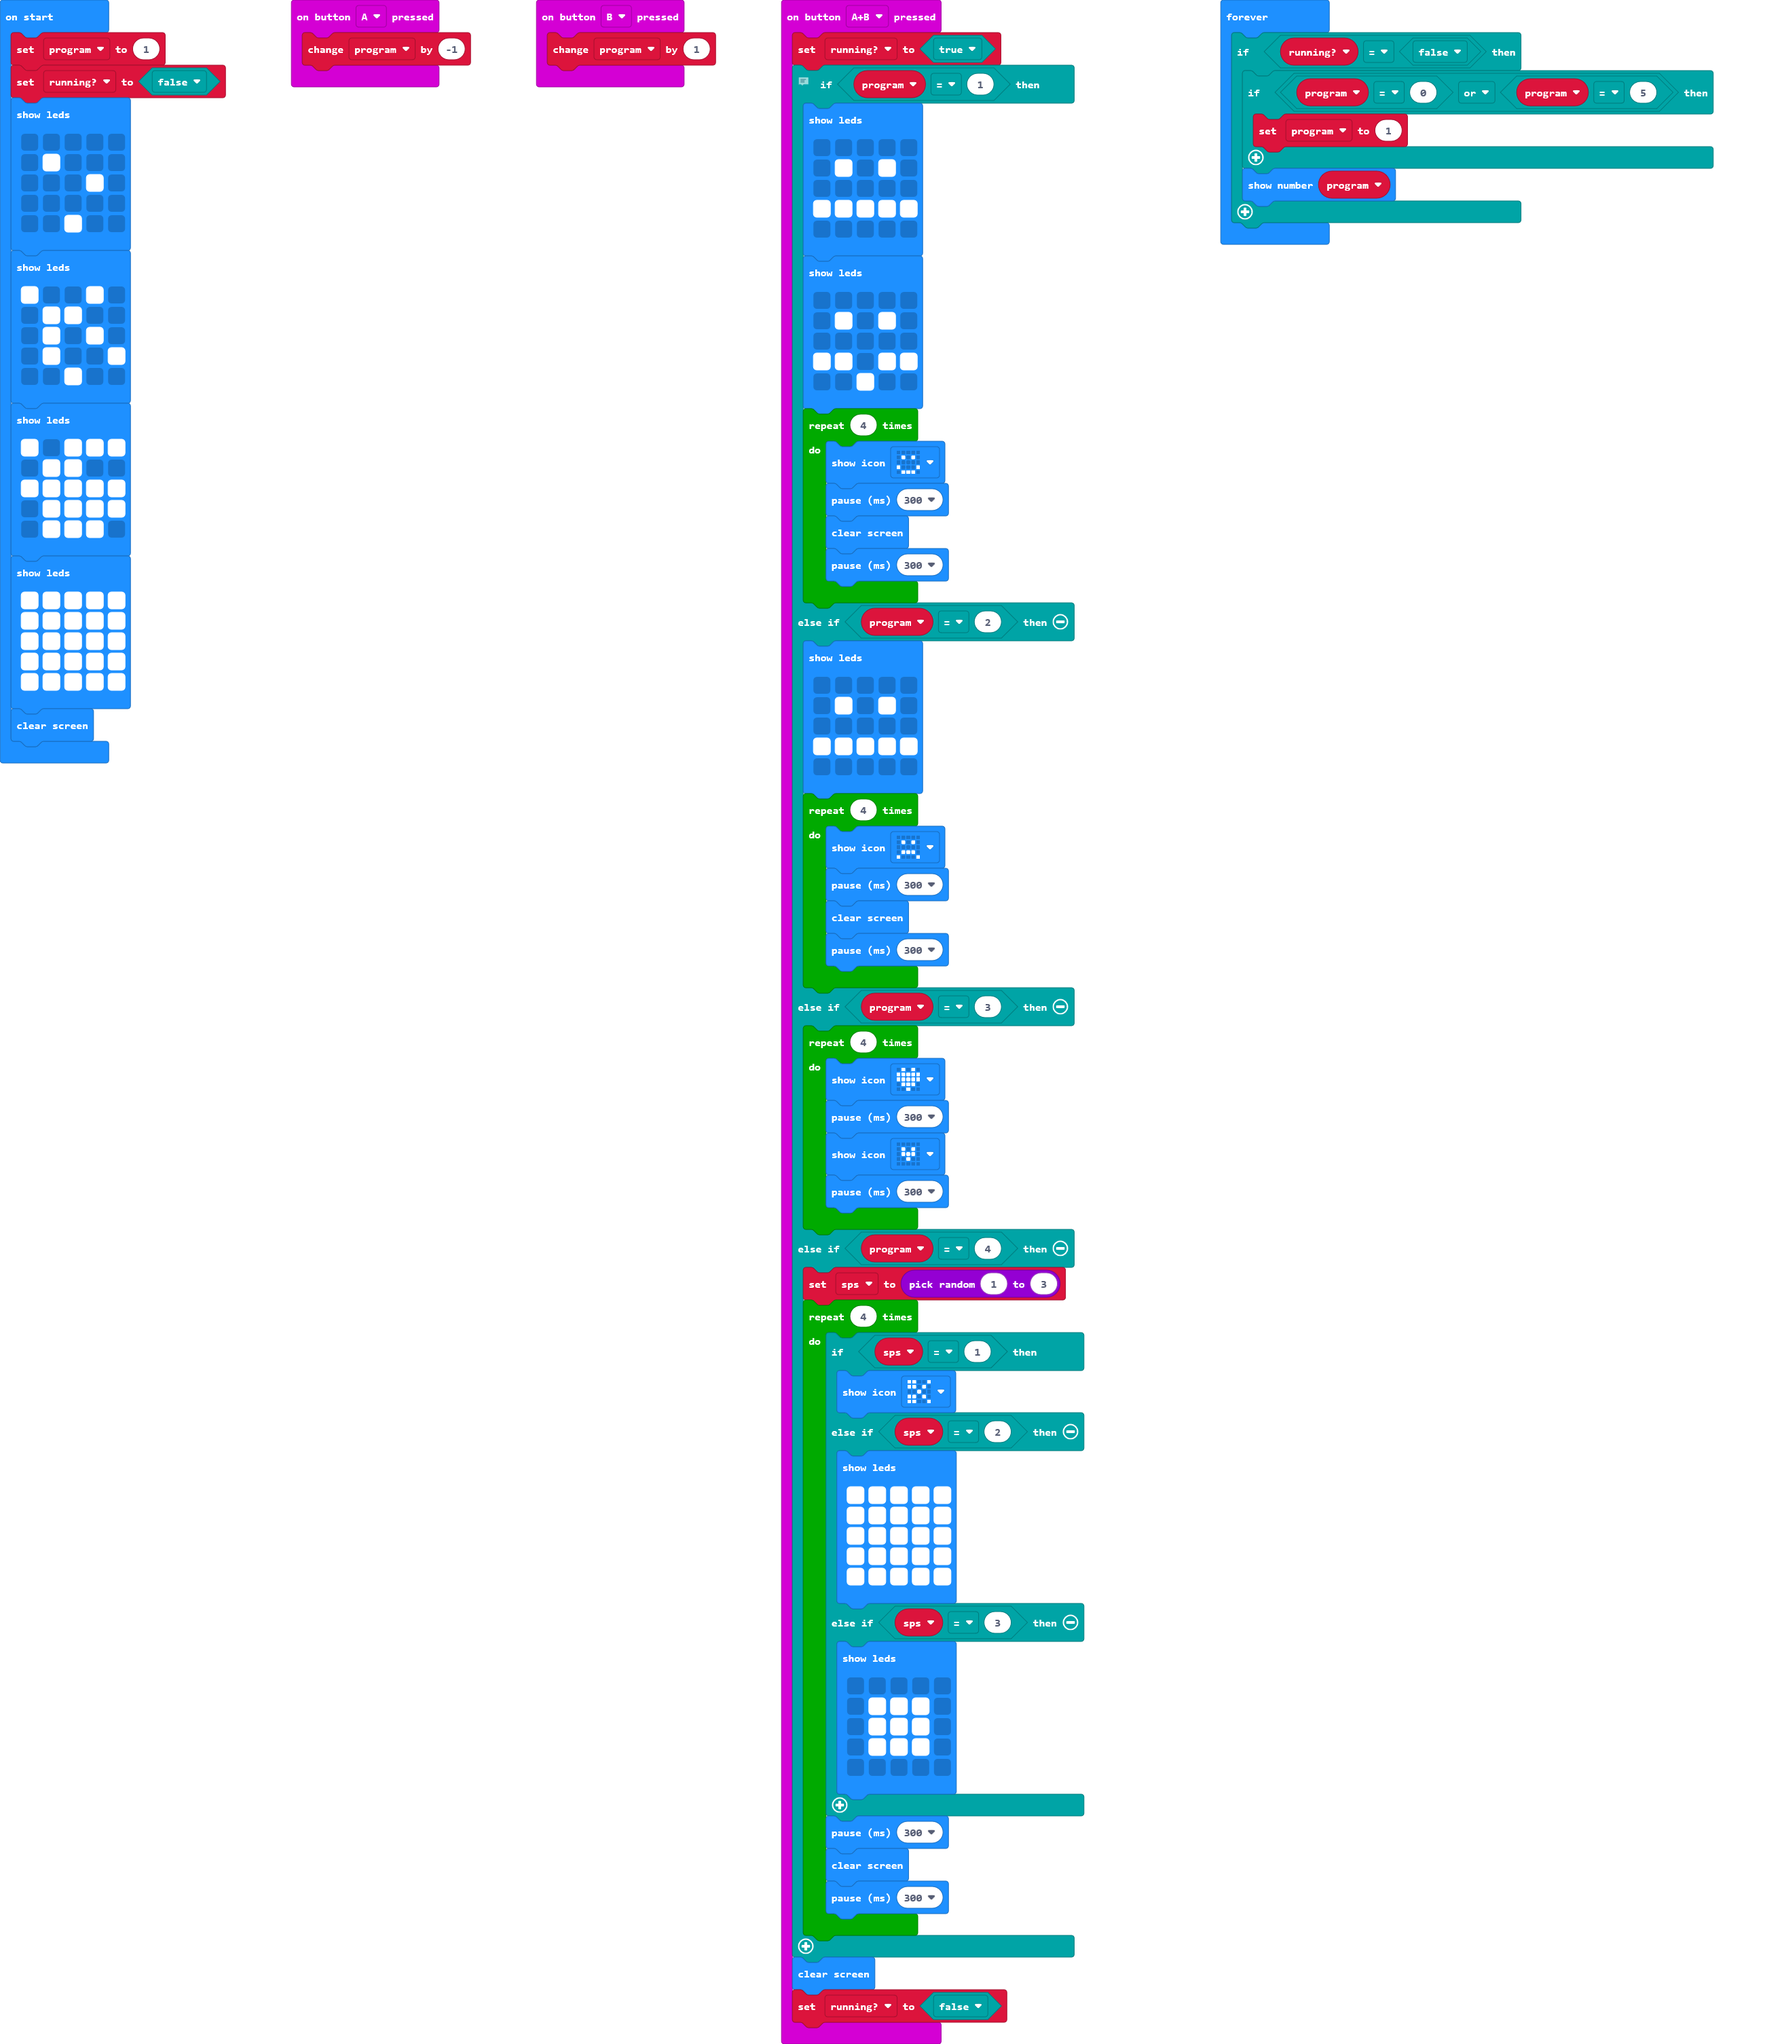
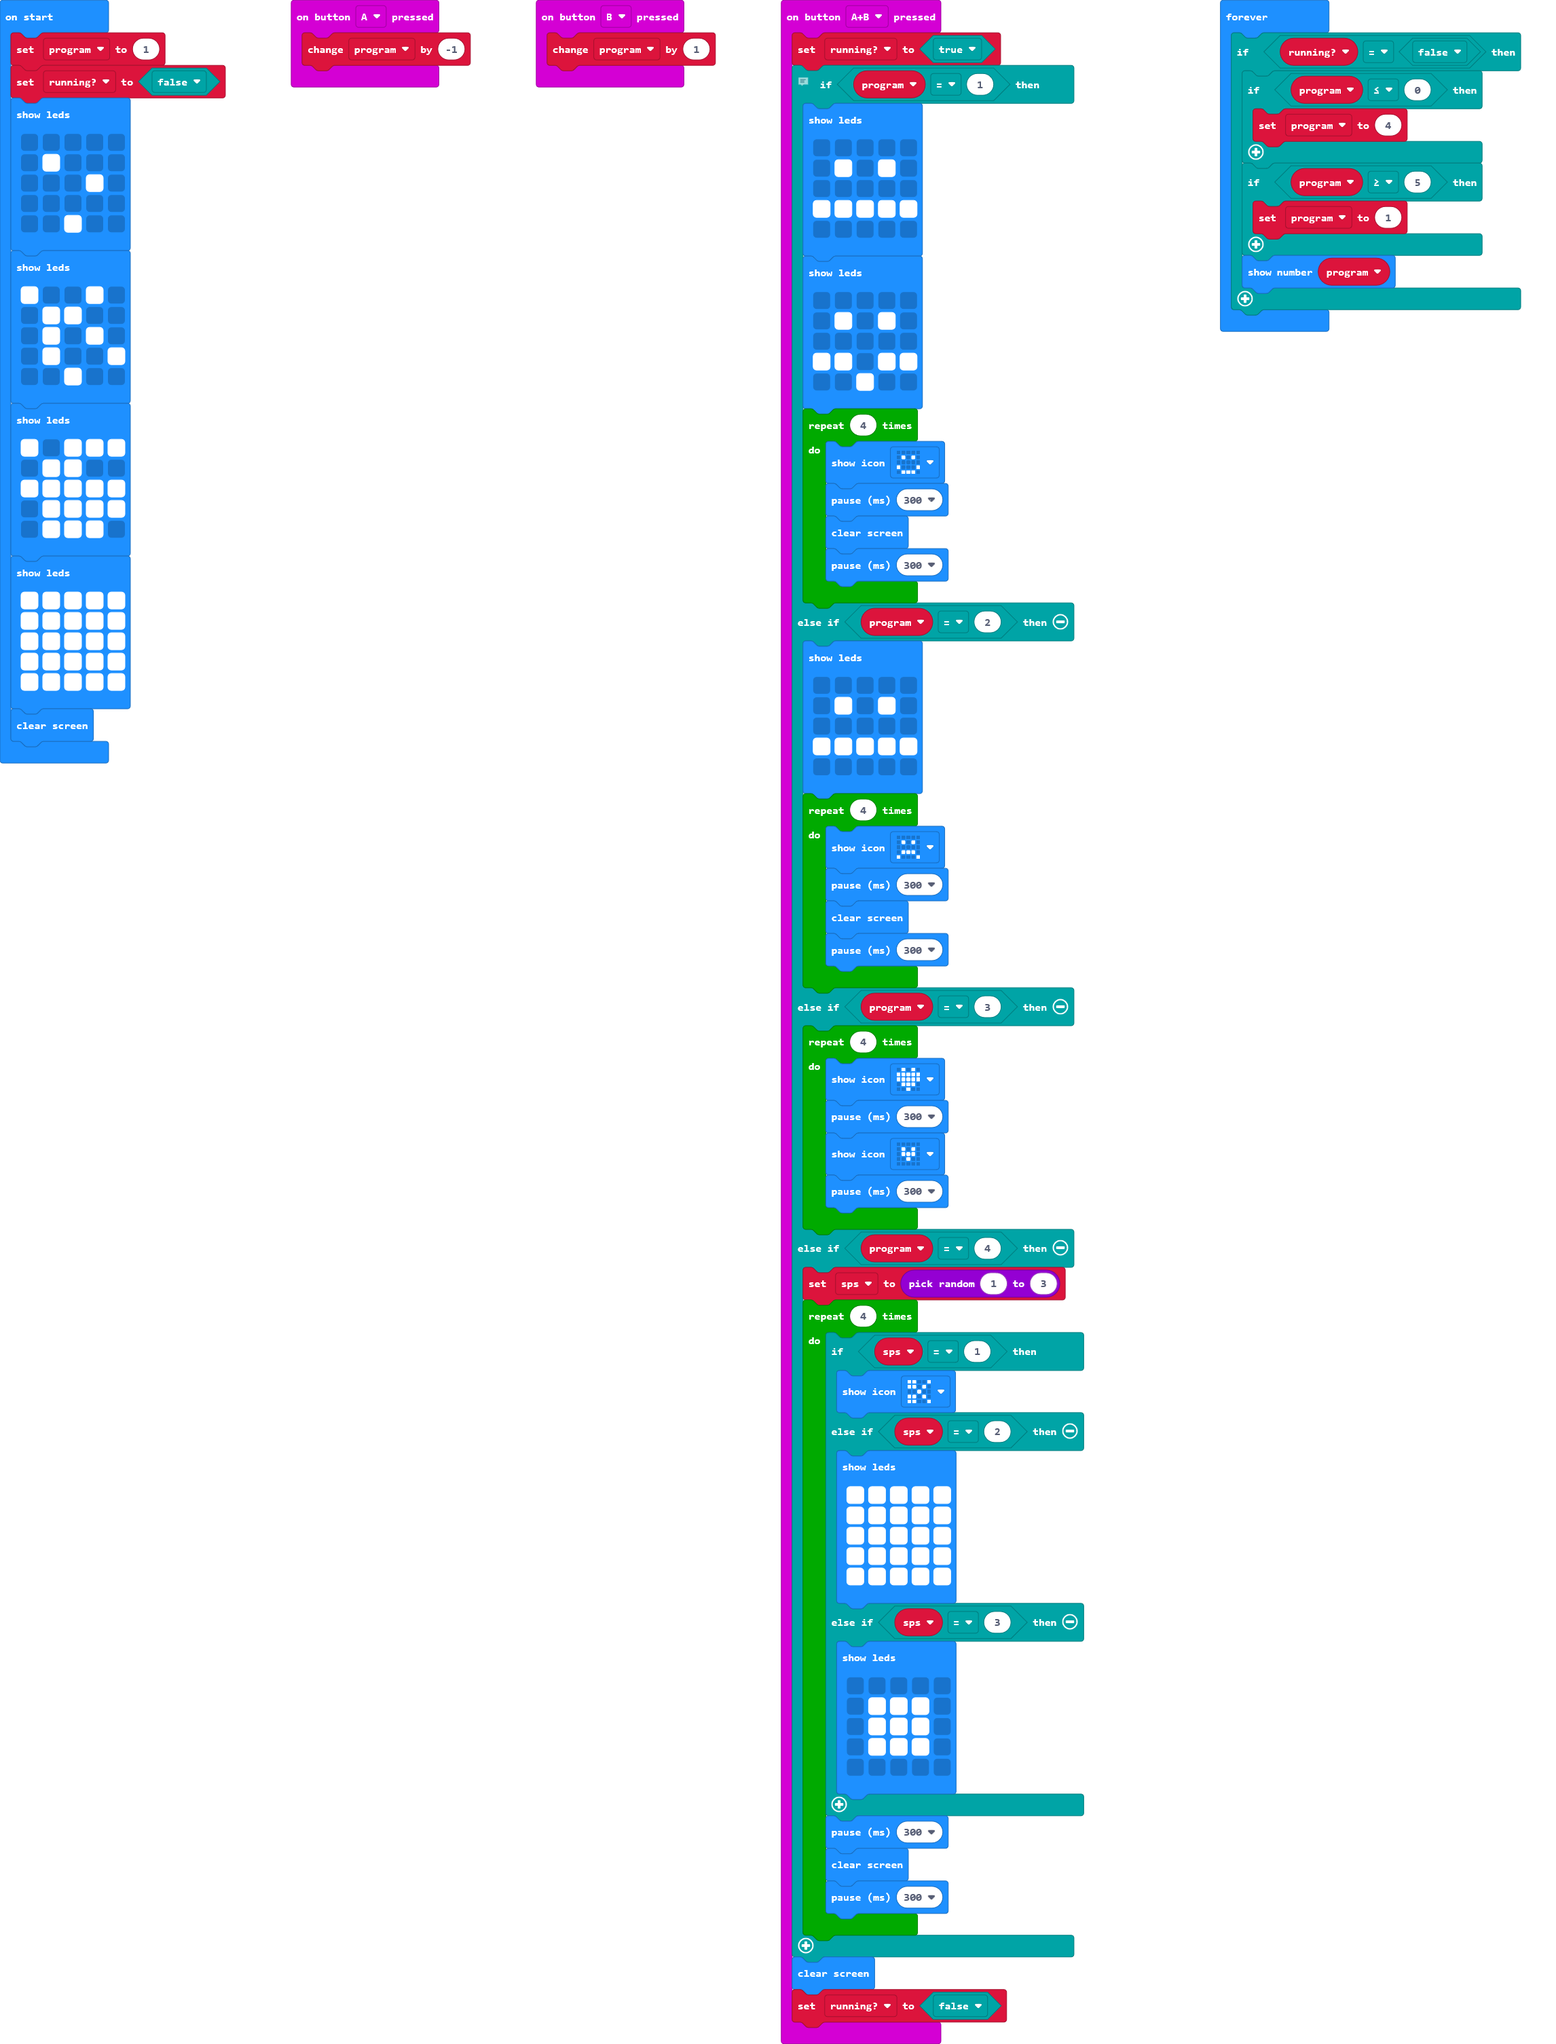
Update main.blocks, main.ts

Changed region(s): [[0.0, 0.0, 0.9913, 1.0]]

diff --git a/main.ts b/main.ts
@@ -118,7 +118,10 @@ basic.showLeds(`
 basic.clearScreen()
 basic.forever(function () {
     if (running == false) {
-        if (program == 0 || program == 5) {
+        if (program <= 0) {
+            program = 4
+        }
+        if (program >= 5) {
             program = 1
         }
         basic.showNumber(program)
